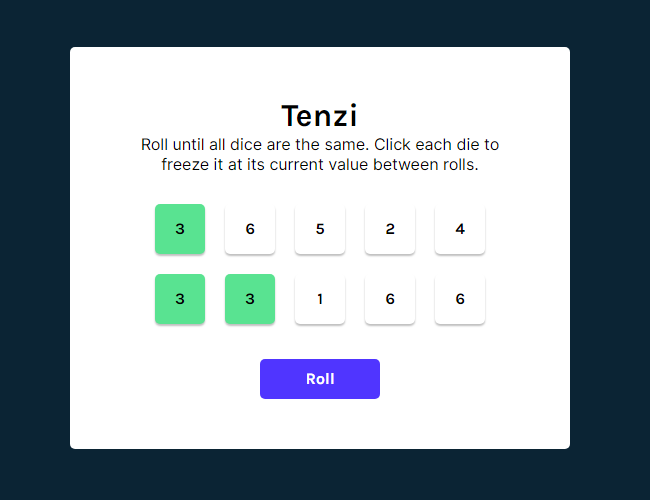
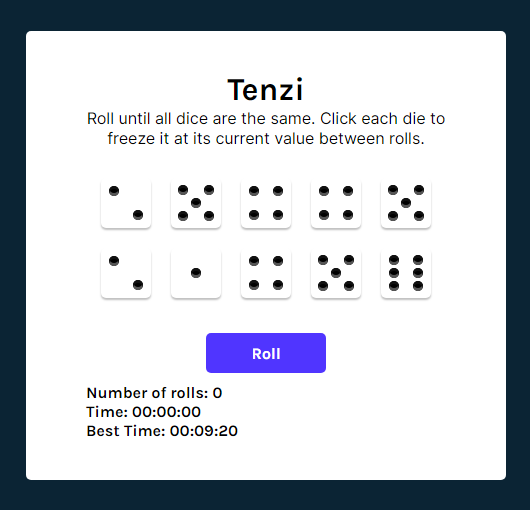
save best time

diff --git a/src/components/Stopwatch.js b/src/components/Stopwatch.js
@@ -3,6 +3,13 @@ import React, {useState, useEffect} from 'react'
 export default function Stopwatch(props) {
 
     const [time, setTime] = useState(0);
+    const [bestTime, setBestTime] = useState(() => {
+        return (JSON.parse(localStorage.getItem("bestTime")))
+    });
+    
+    useEffect(() => {
+        localStorage.setItem("bestTime", JSON.stringify(bestTime))
+    }, [bestTime]) 
     
     useEffect(() => {
         let interval = null;
@@ -14,27 +21,42 @@ export default function Stopwatch(props) {
                 setTime((prevTime) => prevTime + 10);
             }, 10);
         } else {
-          clearInterval(interval);
+            clearInterval(interval);
+            if(bestTime === 0) {
+                setBestTime(time)
+            } else if (bestTime < time) {
+                setBestTime(bestTime)
+            } else if (time !== 0 && time < bestTime) {
+                setBestTime(time)
+            }
+            setTime(0);
         }
-    
         // return cleanup function. Stop the interval 
         // when user leaves the page
         return () => clearInterval(interval);
-    }, [props.timerOn]);
+    }, [props.timerOn, time, bestTime]);
 
     return (
         <div>
-            <span>Time: </span> 
-            {/* time / 60000 transforma o número em segundos */}
-            {/* % 100 pega os números de 1 a 60 apenas */}
-            {/* splice(-2) impede que haja 3 casas de números */}
-            {/* Math.floor() arredonda os números e impede que haja numeral */}
-            <span>{("0" + Math.floor((time / 60000) % 60)).slice(-2)}:</span>
-            {/* time / 1000 transforma o número em segundos */}
-            <span>{("0" + Math.floor(time / 1000) % 60).slice(-2)}:</span>
-            {/* time / 10 transforma o número em milisegundos */}
-            {/* % 100 pega os números de 1 a 99 apenas */}
-            <span>{("0" + ((time / 10) % 100)).slice(-2)}</span>
+            <div>
+                <span>Time: </span> 
+                {/* time / 60000 transforma o número em segundos */}
+                {/* % 100 pega os números de 1 a 60 apenas */}
+                {/* splice(-2) impede que haja 3 casas de números */}
+                {/* Math.floor() arredonda os números e impede que haja numeral */}
+                <span>{("0" + Math.floor((time / 60000) % 60)).slice(-2)}:</span>
+                {/* time / 1000 transforma o número em segundos */}
+                <span>{("0" + Math.floor(time / 1000) % 60).slice(-2)}:</span>
+                {/* time / 10 transforma o número em milisegundos */}
+                {/* % 100 pega os números de 1 a 99 apenas */}
+                <span>{("0" + ((time / 10) % 100)).slice(-2)}</span>
+            </div>
+            <div>
+                <span>Best Time: </span> 
+                <span>{("0" + Math.floor((bestTime / 60000) % 60)).slice(-2)}:</span>
+                <span>{("0" + Math.floor(bestTime / 1000) % 60).slice(-2)}:</span>
+                <span>{("0" + ((bestTime / 10) % 100)).slice(-2)}</span>
+            </div>
         </div>
     )
 }

diff --git a/src/App.js b/src/App.js
@@ -4,14 +4,15 @@ import './App.css';
 
 /* Components */
 import Die from './components/Die.js'
-import Stopwatch from './components/Stopwatch';
+import Stopwatch from './components/Stopwatch.js';
 
 function App() {
   const [randomDiceObj, setRandomDiceObj] = useState(allNewValue)
   const [numberOfRolls, setNumberOfRolls] = useState(0)
   const [tenzi, setTenzi] = useState(false)
 
-  const [timerOn, setTimerOn] = React.useState(false);
+  const [timerOn, setTimerOn] = useState(false);
+  
 
   // Check if game ended or not
   useEffect(() => {
@@ -56,6 +57,7 @@ function App() {
         })
       })
     } else {
+      setTimerOn(false)
       setNumberOfRolls(0)
       setRandomDiceObj(allNewValue)
       setTenzi(false)
@@ -92,7 +94,7 @@ function App() {
       <div className="App--gameInfo">
         <p>Number of rolls: {numberOfRolls}</p>
         <Stopwatch timerOn={timerOn}/>
-        <p>Best time: </p>
+        
       </div>
     </div>
   );

diff --git a/README.md b/README.md
@@ -28,4 +28,4 @@ Your objective in the game is to be fast and shout "Tenzi" first than everyone e
 - [x] Put dots on the dice
 - [x] Track the number of rolls
 - [x] Track the time it took to win
-- [ ] Save best time to localStorage
+- [x] Save best time to localStorage
